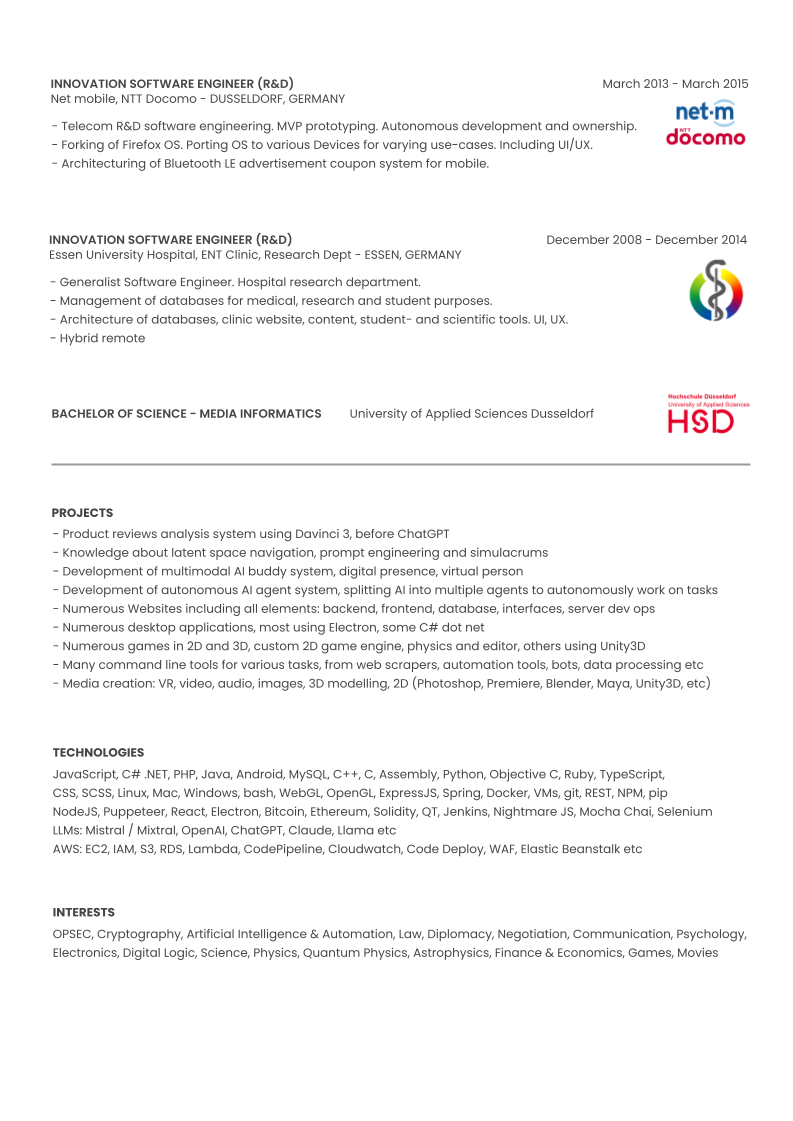
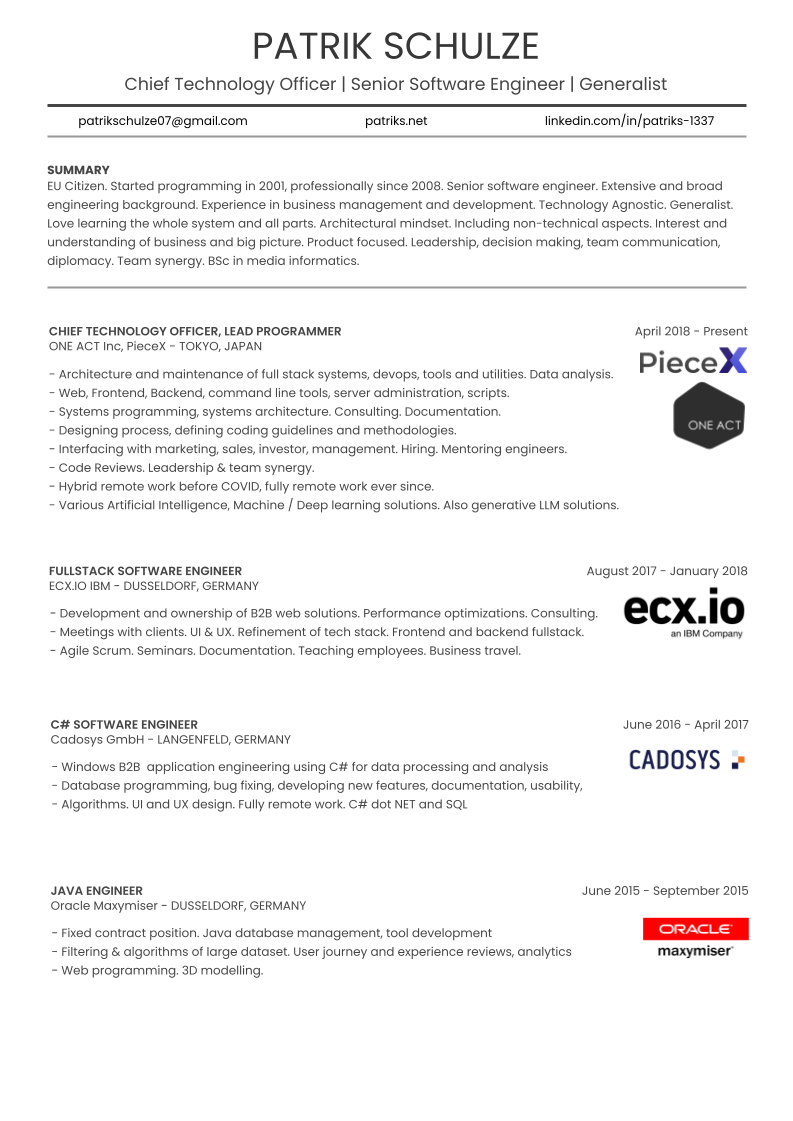
tiny

Changed region(s): [[0.0605, 0.0312, 0.9685, 0.8742]]

diff --git a/index.html b/index.html
@@ -93,8 +93,8 @@
 <body>
 
     <a class="container" href="./RESUME_2024.pdf" target="_blank"> 
-        <div class="resume_page" style="background-image: url(./RESUME_2024_1.webp);"></div>
-        <div class="resume_page" style="background-image: url(./RESUME_2024_2.webp);"></div>
+        <div class="resume_page" style="background-image: url(./RESUME_2024_1.png);"></div>
+        <div class="resume_page" style="background-image: url(./RESUME_2024_2.png);"></div>
     </a>
 
 </body>
